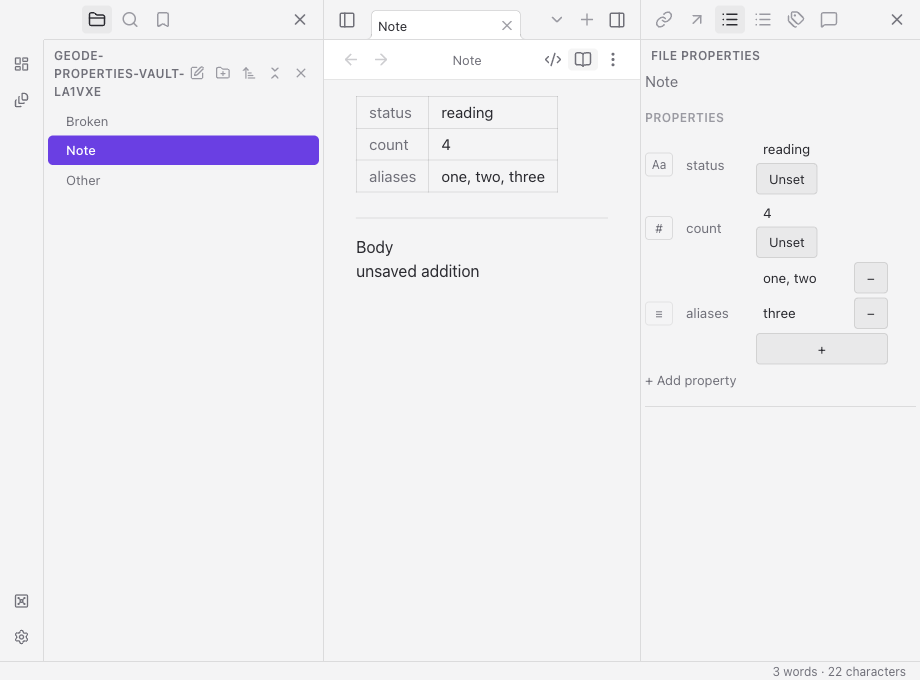
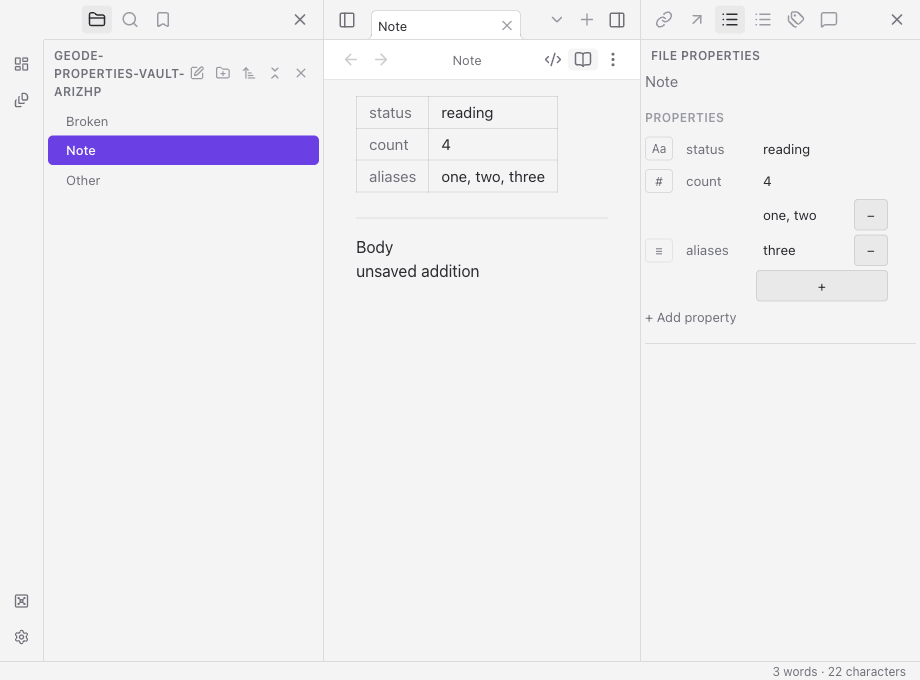
fix(properties): make Unset a small hover-revealed inline control
The Unset button was an unstyled default button that wrapped under every
value. It now sits inline, muted, and appears on row hover/focus.

diff --git a/src/renderer/properties/property-editor.ts b/src/renderer/properties/property-editor.ts
@@ -156,7 +156,7 @@ export class PropertyEditor {
     else if (type === "list" || type === "tags") this.list(valueCell, key, Array.isArray(value) ? value : value === null ? [] : [value], editable, value);
     else valueCell.append(this.valueInput(key, value as PropertyScalar, editable, next => this.apply({ kind: "set", key, value: next, expected: value }), undefined, type));
     if (compatible && !["list", "tags"].includes(type) && value !== null) {
-      const clear = document.createElement("button"); clear.type = "button"; clear.textContent = "Unset"; clear.setAttribute("aria-label", `Unset value: ${key}`); clear.disabled = !editable;
+      const clear = document.createElement("button"); clear.type = "button"; clear.className = "metadata-property-unset"; clear.textContent = "Unset"; clear.setAttribute("aria-label", `Unset value: ${key}`); clear.disabled = !editable;
       clear.addEventListener("click", () => this.apply({ kind: "set", key, value: null, expected: value })); valueCell.append(clear);
     }
     const remove = document.createElement("button"); remove.type = "button"; remove.className = "metadata-property-remove"; remove.textContent = "×"; remove.setAttribute("aria-label", `Remove property: ${key}`); remove.disabled = !editable || !supported; remove.addEventListener("click", () => this.apply({ kind: "remove", key, expected: value }));

diff --git a/styles/app.css b/styles/app.css
@@ -8109,3 +8109,14 @@ select.metadata-property-type { width: 28px; min-width: 28px; padding: 2px 0; fo
 }
 .nav-folder-title.is-artifact .nav-artifact-icon { display: inline-flex; align-items: center; margin-right: 4px; color: inherit; opacity: 0.8; }
 .nav-folder-title.is-artifact .nav-artifact-icon svg { width: 14px; height: 14px; }
+
+/* Unset: small, quiet, hover-revealed — sits inline after the value instead of a full-size button. */
+.metadata-property-value:not(.metadata-property-list) { display: flex; align-items: center; gap: 6px; }
+.metadata-property-value:not(.metadata-property-list) > .metadata-input { flex: 1; min-width: 0; }
+.metadata-property button.metadata-property-unset {
+  flex: none; height: auto; min-height: 0; padding: 1px 6px; font-size: var(--font-ui-smaller, 11px);
+  color: var(--text-faint); background: transparent; border: 0; box-shadow: none; cursor: pointer;
+  opacity: 0; border-radius: 4px;
+}
+.metadata-property:hover button.metadata-property-unset, .metadata-property button.metadata-property-unset:focus-visible { opacity: 1; }
+.metadata-property button.metadata-property-unset:hover { color: var(--text-normal); background: var(--background-modifier-hover); }
